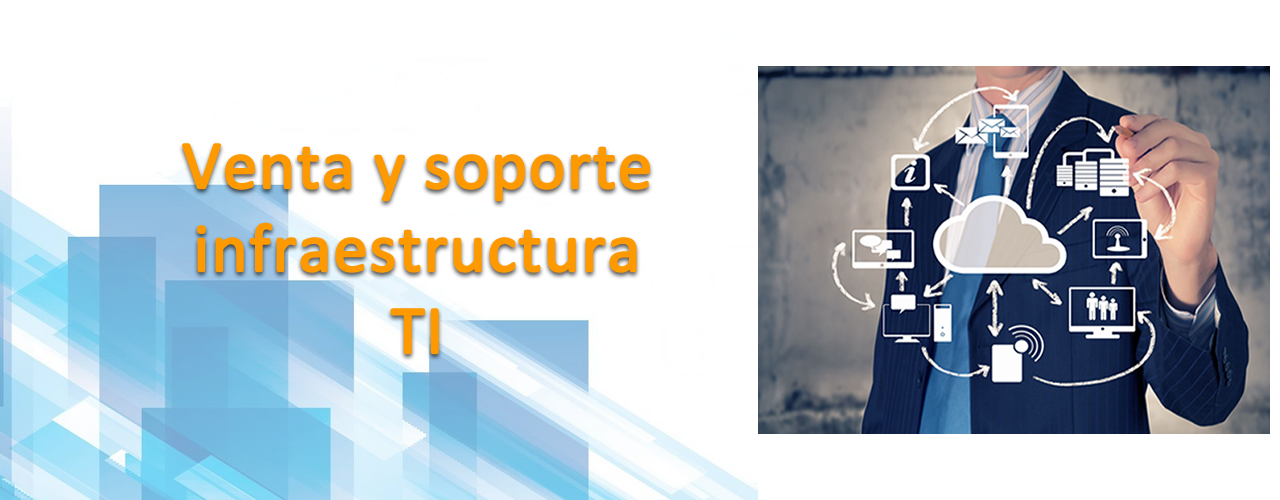
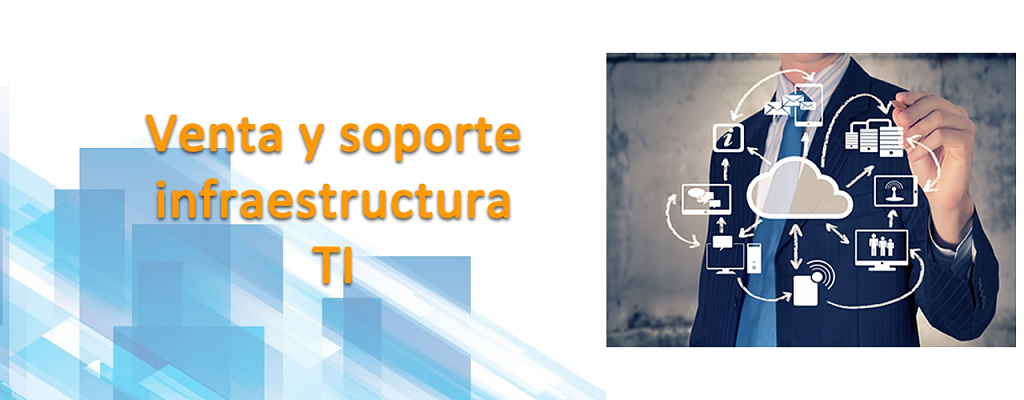
Actualización 01/06/15

diff --git a/estilo/estilos.css b/estilo/estilos.css
@@ -11,9 +11,10 @@
   -moz-box-sizing: border-box;
   box-sizing: border-box;
 }
-body {
+body, html {
   font-family: Arimo, Arial, Helvetica, Sans-serif;
   background: #fefefe;
+  height: 100%;
 }
 .menu_bar {
   display: none;
@@ -26,7 +27,6 @@ header nav {
   z-index: 1000;
   max-width: 100%;
   width: 100%;
-  margin: 0px auto;
   font-size: 15px;
   text-shadow: 0px 0px 1px #2E2E2E;
 }
@@ -137,13 +137,15 @@ header nav ul li .caret {
 section{
   max-width: 100%;
   width: 100%;
-  margin: 20px auto;
+  margin: 30px auto;
 }
+
 /*Inicia Slider*/
 .main {
   width: 70%;
   max-width: 1050px;
-  margin: 10px auto;
+  margin: 30px auto;
+  margin-bottom: -100px;
 }
 .slides {
   width: 100%;
@@ -201,13 +203,13 @@ section{
 
 /*Start Footer*/
 footer {
-  margin-bottom: 0;
+  bottom: 0;
+  position: fixed;
   background: #4F4D4C;
   box-shadow: 0 -5px 0 rgba(0,0,0,0.1);
   color: #fff;
   padding: 0.2em 0.5em;
   max-width: 100%;
-  overflow: hidden;
   width: 100%;
 }
 footer .datos_contacto {
@@ -302,18 +304,25 @@ footer .datos_contacto .icon-office:after {
   header nav ul li .caret {
     float: right;
   }
+  section{
+    margin-top: 0px;
+  }
   .slidesjs-pagination a {
     display: none;
   }
   .social {
     display: none;
   }
+  footer{
+    overflow: hidden;
+    font-size: 12px;
+  }
   footer .datos_contacto {
     float: left;
-    text-align: left;
-    width: 90%;
     max-width: 90%;
     padding-top: 10px 
+    text-align: left;
+    width: 90%;
   }
   .goheaven {
     right: 8px;
@@ -324,8 +333,8 @@ footer .datos_contacto .icon-office:after {
     font-size: 25px;
   }
   .main {
-  width: 95%;
-  max-width: 100%;
+    width: 95%;
+    max-width: 100%;
   }
   .slidesjs-pagination{
     display:none;

diff --git a/estilo/nosotros.css b/estilo/nosotros.css
@@ -1,27 +1,27 @@
-.section {
-  margin: 0 auto;
-  position: relative;
-  width: 520px;
-  z-index: -5;
-}
-.section .contenedor {
-  position: relative;
-  width: 520px;
-}
-.section .contenedor .slider {
-  box-shadow: 0px 0px 2px #000;
-  margin: 0 auto;
-  margin-top: 0px;
-  min-height: 388px;
-  overflow: hidden;
-  padding: 0;
-  position: relative;
+.enlaces{
+  margin: 30px;
   width: 100%;
+  max-width: 100%;
 }
-.section .contenedor .slider .elemento {
-  position: absolute;
-  width: 100%;
+.enlaces label{
+  background: #58ACFA;
+  box-shadow: 1px 1px 2px black;
+  color: white;
+  padding: 5px 10px;
 }
-.section .contenedor .slider .elemento img {
-  width: 100%;
+
+.enlaces label a{
+  color: white;
+  font-size: 20px;
+  text-decoration: none;
+  text-shadow: .8px .8px 1px black;
+}
+
+.enlaces label:hover{
+  opacity: 0.8;
+  padding: 8px 13px;
+}
+
+.cont_iframe iframe{
+  max-width: 80%;
 }

diff --git a/estilo/clientes.css b/estilo/clientes.css
@@ -1,21 +1,9 @@
-.section{
-	background: none;
-	margin-top: 20px;
-	max-width: 100%;
-	overflow: hidden;
-	padding: 15px;
-	position: relative;
-	width: 100%;
-	margin: 0 auto;
-}
 .contenedor{
-	align: center;
-	position: relative;
+	margin: 30px;
+	width: auto;
+	max-width: 100%;
 }
-.contenedor form{
-	margin: auto;
-	padding: 10px;
-}
-.contenedor form img{
+
+.contenedor img{
 	max-width: 100%;
 }

diff --git a/estilo/aviso.css b/estilo/aviso.css
@@ -1,5 +1,6 @@
 .aviso{
 	margin: 50px auto;
+	margin-bottom: 130px;
 	text-align: justify;
 	width: 80%;
 	max-width: 80%;
@@ -19,6 +20,11 @@
 .aviso label a{
 	text-decoration: none;
 	padding: 10px;
-	background: orange;
-	color: black
+	background: #58ACFA;
+	color: #1C1C1C;
+	z-index: 10;
+}
+
+.aviso label:hover{
+	opacity: 0.9;
 }

diff --git a/estilo/contact.css b/estilo/contact.css
@@ -1,6 +1,8 @@
-
 form iframe{
-	max-width: 100%;
+	max-width: 80%;
+}
+.forma{
+	margin-bottom: 100px;
 }
 .forma form{
 	width: 100%;

diff --git a/estilo/servicios.css b/estilo/servicios.css
@@ -49,7 +49,7 @@
  
 .acord-horizon
 {
-	margin: 0 auto;
+	margin: 0px auto;
     padding: 1px;
 	width: 964px;
 	margin: auto;

diff --git a/views/servicios.tpl.php b/views/servicios.tpl.php
@@ -6,7 +6,7 @@
                 <label for="group-01-02">Continuidad de Negocio</label>
                 <div>
                     <h3>CONTINUIDAD DE NEGOCIO</h3>
-                    <a href="#"><img src="images/Continuidad.png" width="300"></a>
+                    <a href="#"><img src="images/Continuidad.jpg" width="300"></a>
                     <br />
                     <p>
                         El Modelo de Administración de la Continuidad de Negocios (BCM por sus siglas en ingles), 
@@ -38,7 +38,7 @@
                 <label for="group-01-01">Gestión de Procesos</label>
                 <div>
                     <h3>GESTIÓN DE PROCESOS</h3>
-                    <a href="#"><img src="images/procesos.png" width="300"></a>
+                    <a href="#"><img src="images/procesos.jpg" width="300"></a>
                     <br />
                     <p>
                         La nueva visión de las oficinas de gestión de procesos, hace énfasis en los términos de ¿qué? (trabajo) 
@@ -64,7 +64,7 @@
                 <label for="group-01-03">Sistemas de Gestión de Calidad</label>
                 <div>
                     <h3>SISTEMAS DE GESTIÓN DE CALIDAD</h3>
-                    <a href="#"><img src="images/calidad.png" width="300"></a>
+                    <a href="#"><img src="images/calidad.jpg" width="300"></a>
                     <br />
                     <p>
                         Alguna vez te has preguntado:
@@ -95,7 +95,7 @@
                 <label for="group-01-04">Reclutamiento y Selección de Personal</label>
                 <div>
                     <h3>SERVICIOS DE RECLUTAMIENTO Y SELECCIÓN DE PERSONAL</h3>
-                    <a href="#"><img src="images/rrhh.png" width="300"></a>
+                    <a href="#"><img src="images/rrhh.jpg" width="300"></a>
                     <br />
                     <p>Apoyamos a nuestros clientes en la selección del personal idóneo de acuerdo al puesto y habilidades
 						requeridas mediante procesos claramente definidos.
@@ -119,7 +119,7 @@
                 <label for="group-01-05">Análisis de Riesgos Operacionales</label>
                 <div>
                     <h3>ANÁLISIS DE RIESGOS OPERACIONALES</h3>
-                    <a href=""><img src="images/Riesgos.png" width="300"></a>
+                    <a href=""><img src="images/Riesgos.jpg" width="300"></a>
                     <br />
                     <p>
                         Los riesgos operacionales constituyen en la actualidad un nuevo enfoque en las empresas

diff --git a/views/nosotros.tpl.php b/views/nosotros.tpl.php
@@ -1,12 +1,7 @@
-<div class="section" align="center">
-			<div class="contenedor">
-				<div class="slider">
-					<div class="elemento">
-						<img src="./images/Misión.png" />
-					</div>
-					<div class="elemento">
-						<img src="./images/Visión.png" />
-					</div>
-				</div>
-			</div>
+<div class="enlaces" align="center">
+	<label><a href="./images/Misión.jpg" target="iframe_a">Misión</a></label>
+	<label><a href="./images/Visión.jpg" target="iframe_a">Visión</a></label>	
+</div>
+<div class="cont_iframe" align="center">
+		<iframe width="605" height="405" align="center" src="./images/Misión.jpg" name="iframe_a"></iframe>
 </div>

diff --git a/views/home.tpl.php b/views/home.tpl.php
@@ -1,10 +1,10 @@
 		<div class="main">
 			<div class="slides">
-				<a href="./servicios/#group-01-02"><img src="images/1.png" alt=""></a>
-				<img src="images/2.png" alt="">
-				<img src="images/3.png" alt="">
-				<img src="images/4.png" alt="">
-				<img src="images/5.png" alt="">
-				<img src="images/6.png" alt="">
+				<a href="./servicios/#group-01-02"><img src="images/1.jpg" alt=""></a>
+				<img src="images/2.jpg" alt="">
+				<img src="images/3.jpg" alt="">
+				<img src="images/4.jpg" alt="">
+				<img src="images/5.jpg" alt="">
+				<img src="images/6.jpg" alt="">
 			</div>
 		</div>

diff --git a/php/send.php b/php/send.php
@@ -2,8 +2,8 @@
 	if(isset($_POST['email'])) {
 
 		// Debes editar las próximas dos líneas de código de acuerdo con tus preferencias
-		$email_to = "issac_centeno@redot.mx";
-		$email_subject = "issac_centeno@redot.mx";
+		$email_to = $_POST['email'];
+		$email_subject = "isacenteno@hotmail.com";
 
 		// Aquí se deberían validar los datos ingresados por el usuario
 		if(!isset($_POST['first_name']) ||

diff --git a/views/contacto.tpl.php b/views/contacto.tpl.php
@@ -4,6 +4,8 @@
 		</form>	
 	</div>
 	<div class="forma" align="center">
+		<h3>Escribemos</h3>
+		<p>En breve nos pondremos en contacto contigo.</p>
 		<form action="send.php" method="post">
 			<input placeholder="Nombre(s)*" type="text" name="first_name" maxlength="50" size="35" required>
 			<br/><br/>

diff --git a/views/clientes.tpl.php b/views/clientes.tpl.php
@@ -1,7 +1,3 @@
-<div class="section" align="center">
-	<div class="contenedor">
-		<form>
-			<img src="./images/Clientes.png" width="520" height="370" />
-		</form>	
-	</div>
+<div class="contenedor" align="center">
+			<img src="./images/Clientes.jpg" width="650" height="450" />
 </div>
